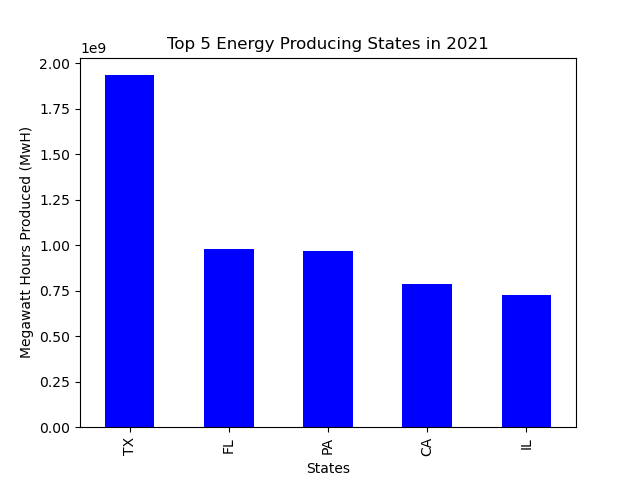
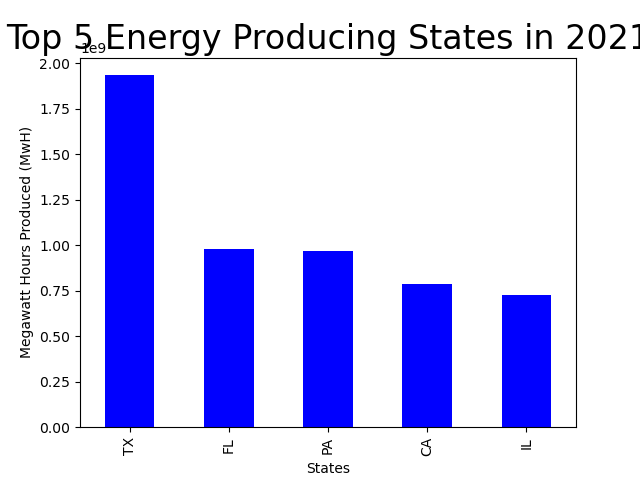
fix all images and finish all graphs with code

Changed region(s): [[0.0, 0.0312, 1.0, 0.125]]

diff --git a/graph3.py b/graph3.py
@@ -18,9 +18,9 @@ def plot3():
     frame_run = frame3()
     production = np.array(frame_run["GENERATION (Megawatthours)"])
     plt.scatter(years, production, label = 'Total Generation Per Year', color="green")
-    plt.ylabel("Fossil Fuel Usage in Megawatt Hours")
+    plt.ylabel("Fossil Fuel Usage in Megawatt Hours (MwH)")
     plt.xlabel("Year")
-    plt.title("Total Power Production Of Fossil Fuels Each Year")
+    plt.title(("Total Power Production Of Fossil Fuels Each Year"), fontsize = 24)
     plt.xticks(np.arange(2001, 20021, step=2))
     a, b = np.polyfit(years, production, 1)
     plt.plot(years, a*years+b, color= "red")        

diff --git a/graph1.py b/graph1.py
@@ -13,7 +13,7 @@ def frame1():
 def plot1(frame):
     frame.plot.bar(color = "Yellow")
     plt.xlabel('Energy Types')
-    plt.title('Total Uses of Each Energy Source from 2001-2022')
+    plt.title(('Total Uses of Each Energy Source from 2001-2022'), fontsize = 24)
     plt.ylabel('Number of Occurences')
     plt.yticks(np.arange(0, 100000, step=20000))
     plt.tight_layout()

diff --git a/graph2.py b/graph2.py
@@ -13,7 +13,7 @@ def frame2():
 def plot2(frame2):
     frame2.plot.bar(color = "blue")
     plt.xlabel('States')
-    plt.title('Top 5 Energy Producing States in 2021')
+    plt.title(('Top 5 Energy Producing States in 2021'), fontsize = 24)
     plt.ylabel('Megawatt Hours Produced (MwH)')
     plt.legend().remove()
 
